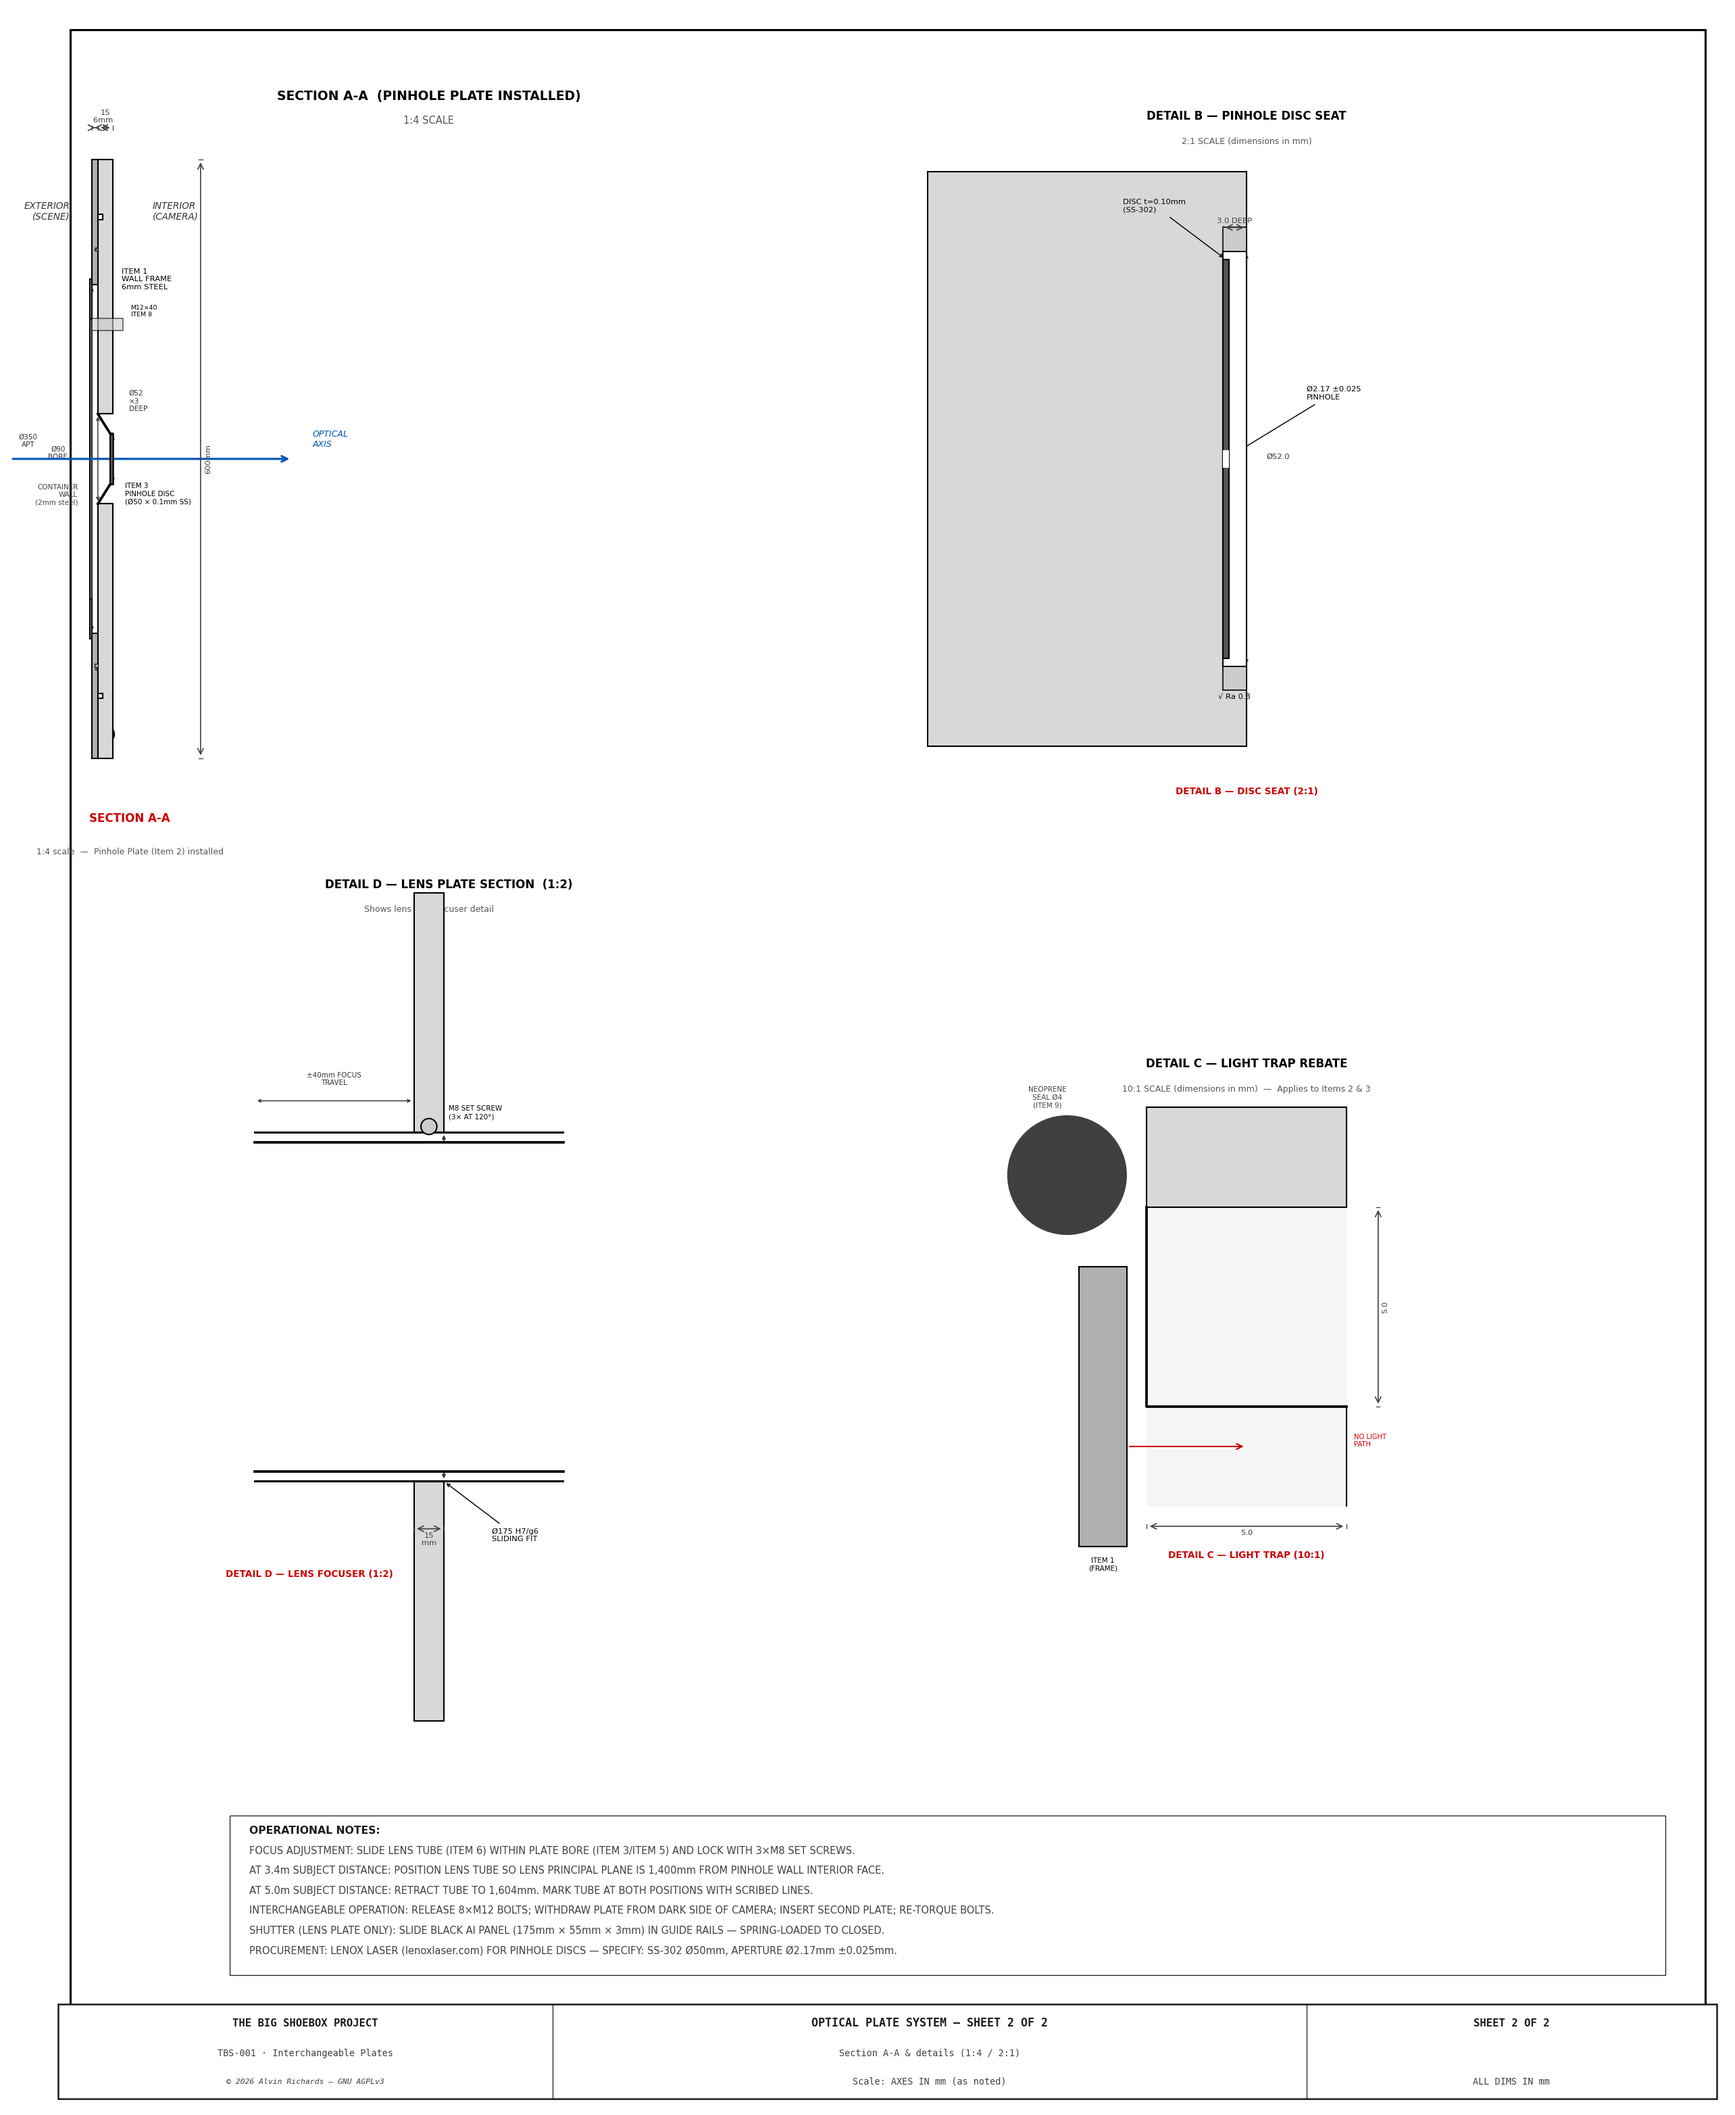
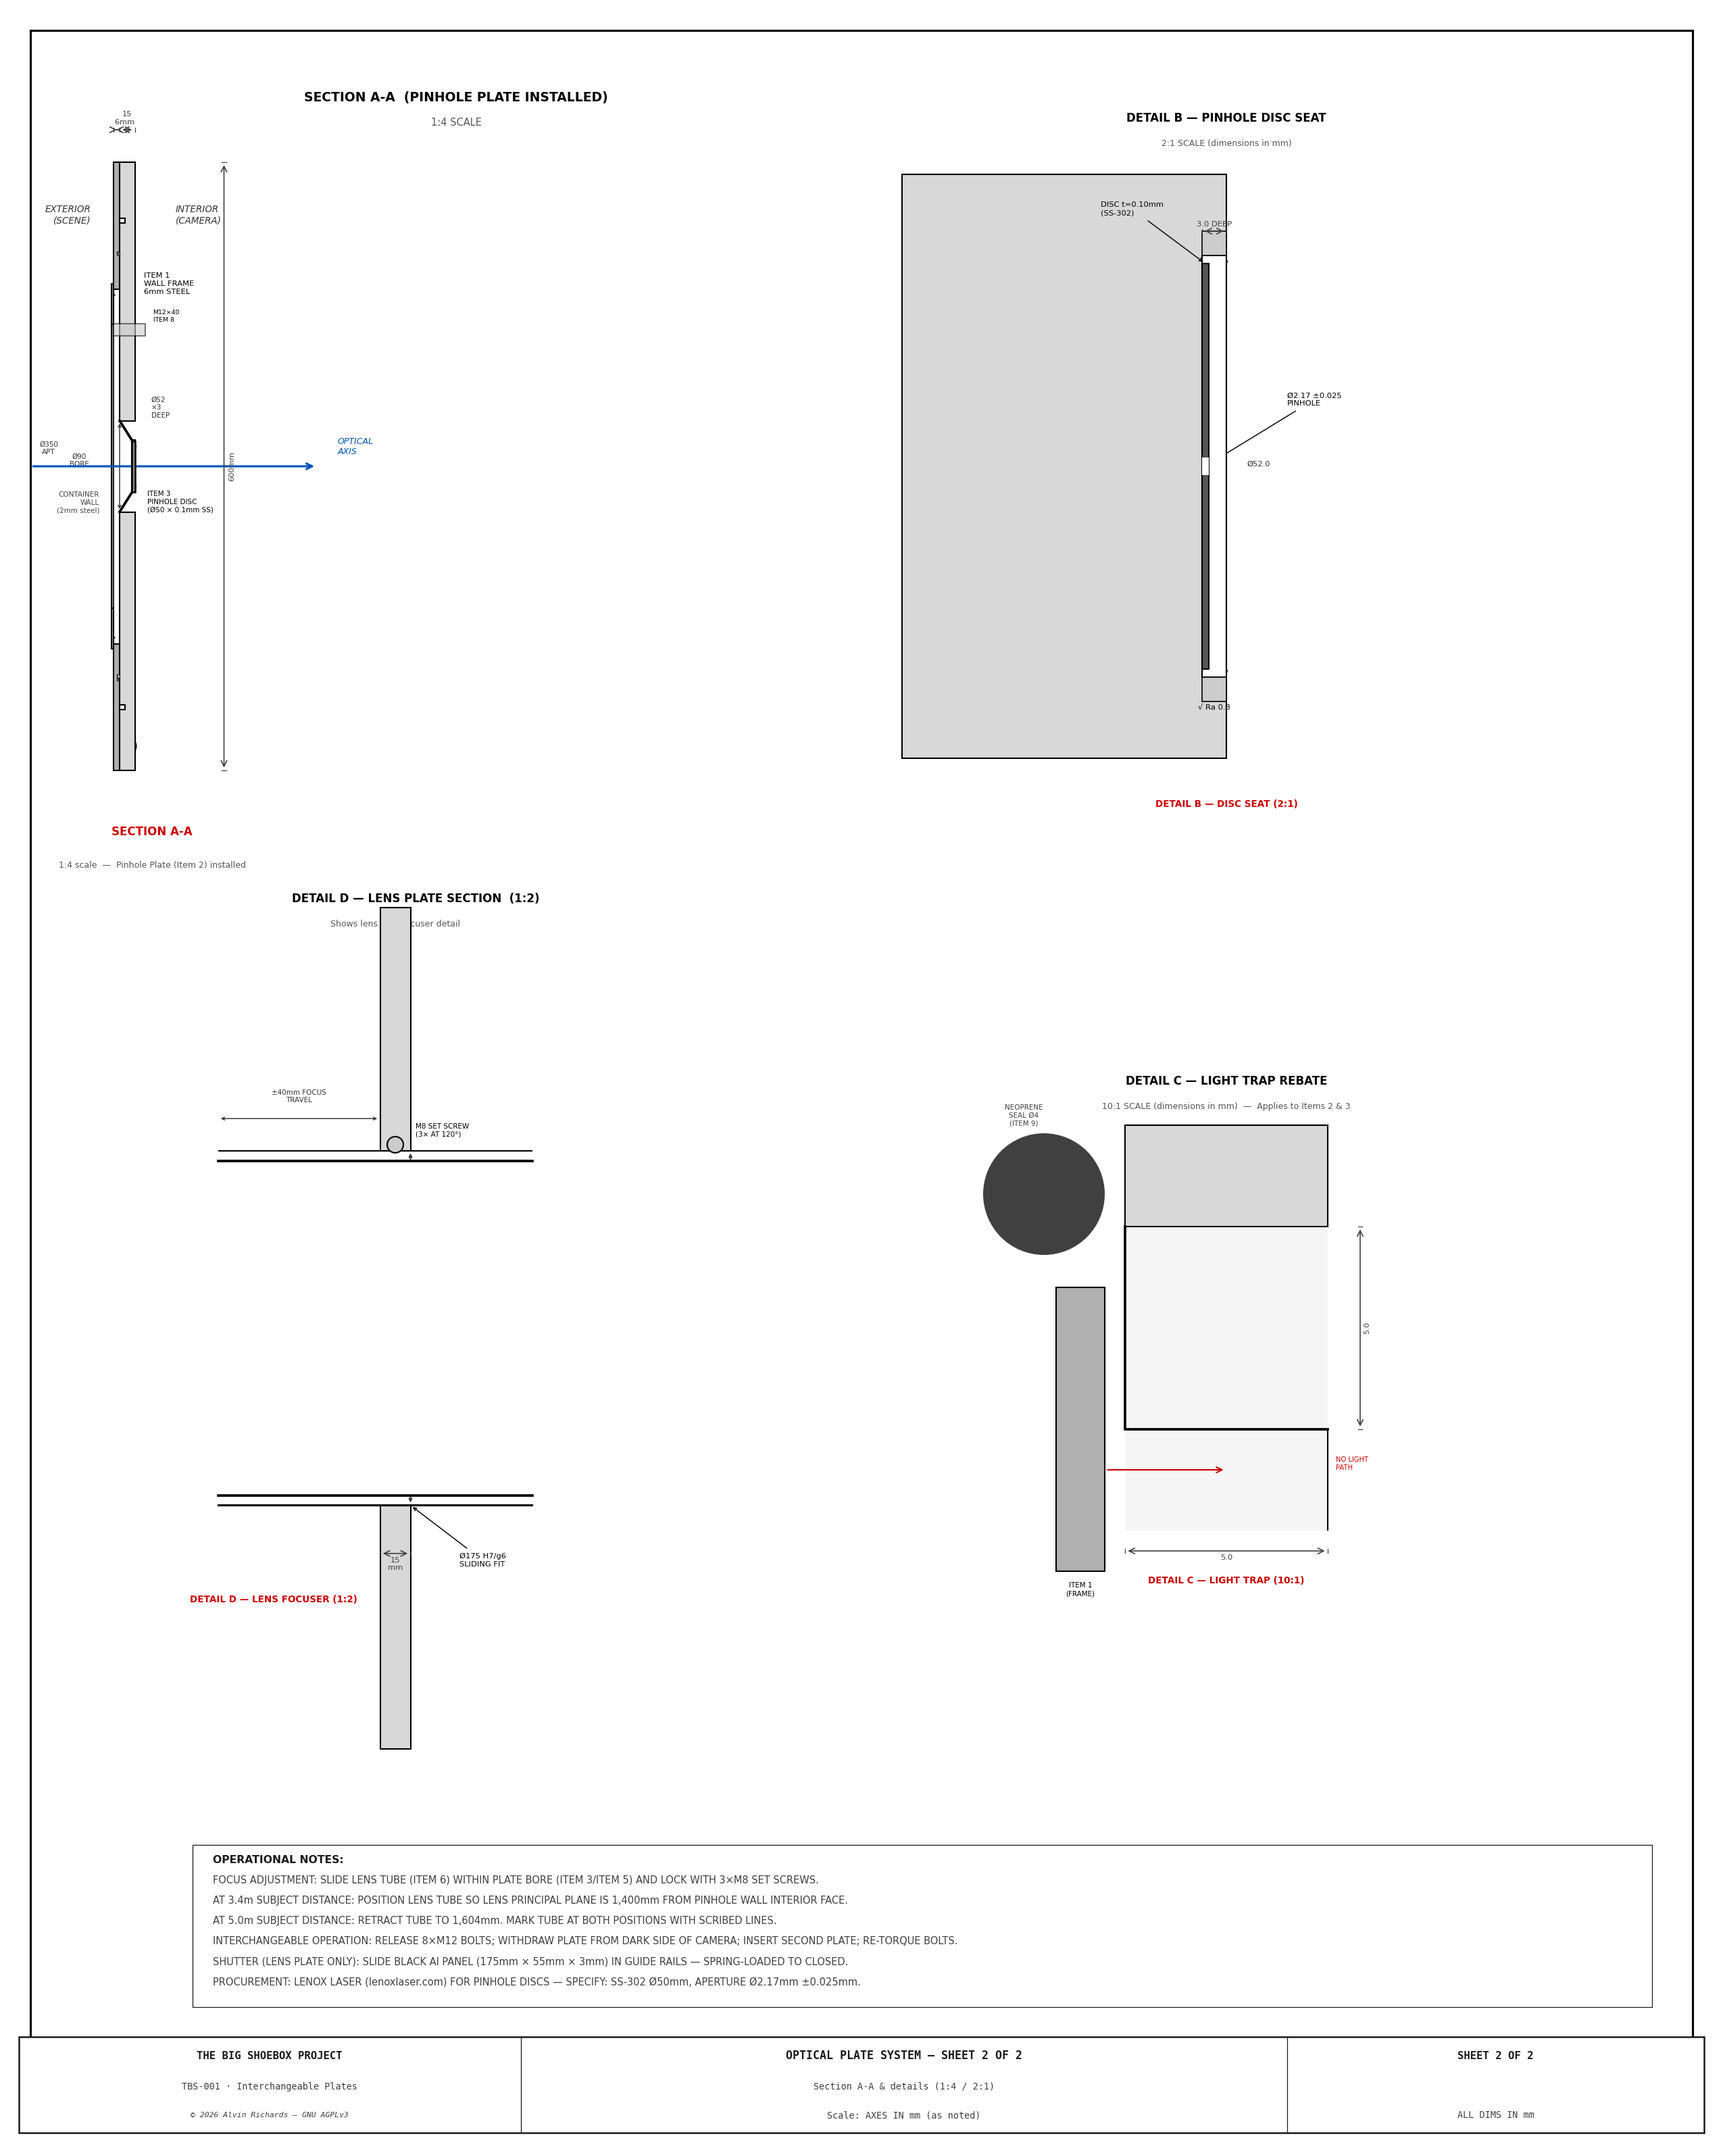
Plate drawing sheet 2: shift Section A-A right so all labels are inside border

diff --git a/generate_plate_drawing.py b/generate_plate_drawing.py
@@ -322,7 +322,7 @@ def draw_sheet2():
     SC4 = 1
     def ss(mm): return mm * SC4
 
-    scx, scy = 380, 1650
+    scx, scy = 440, 1650
 
     ax2.text(scx, scy + 360, 'SECTION A-A  (PINHOLE PLATE INSTALLED)', ha='center',
              fontsize=9, fontweight='bold', color='black')
